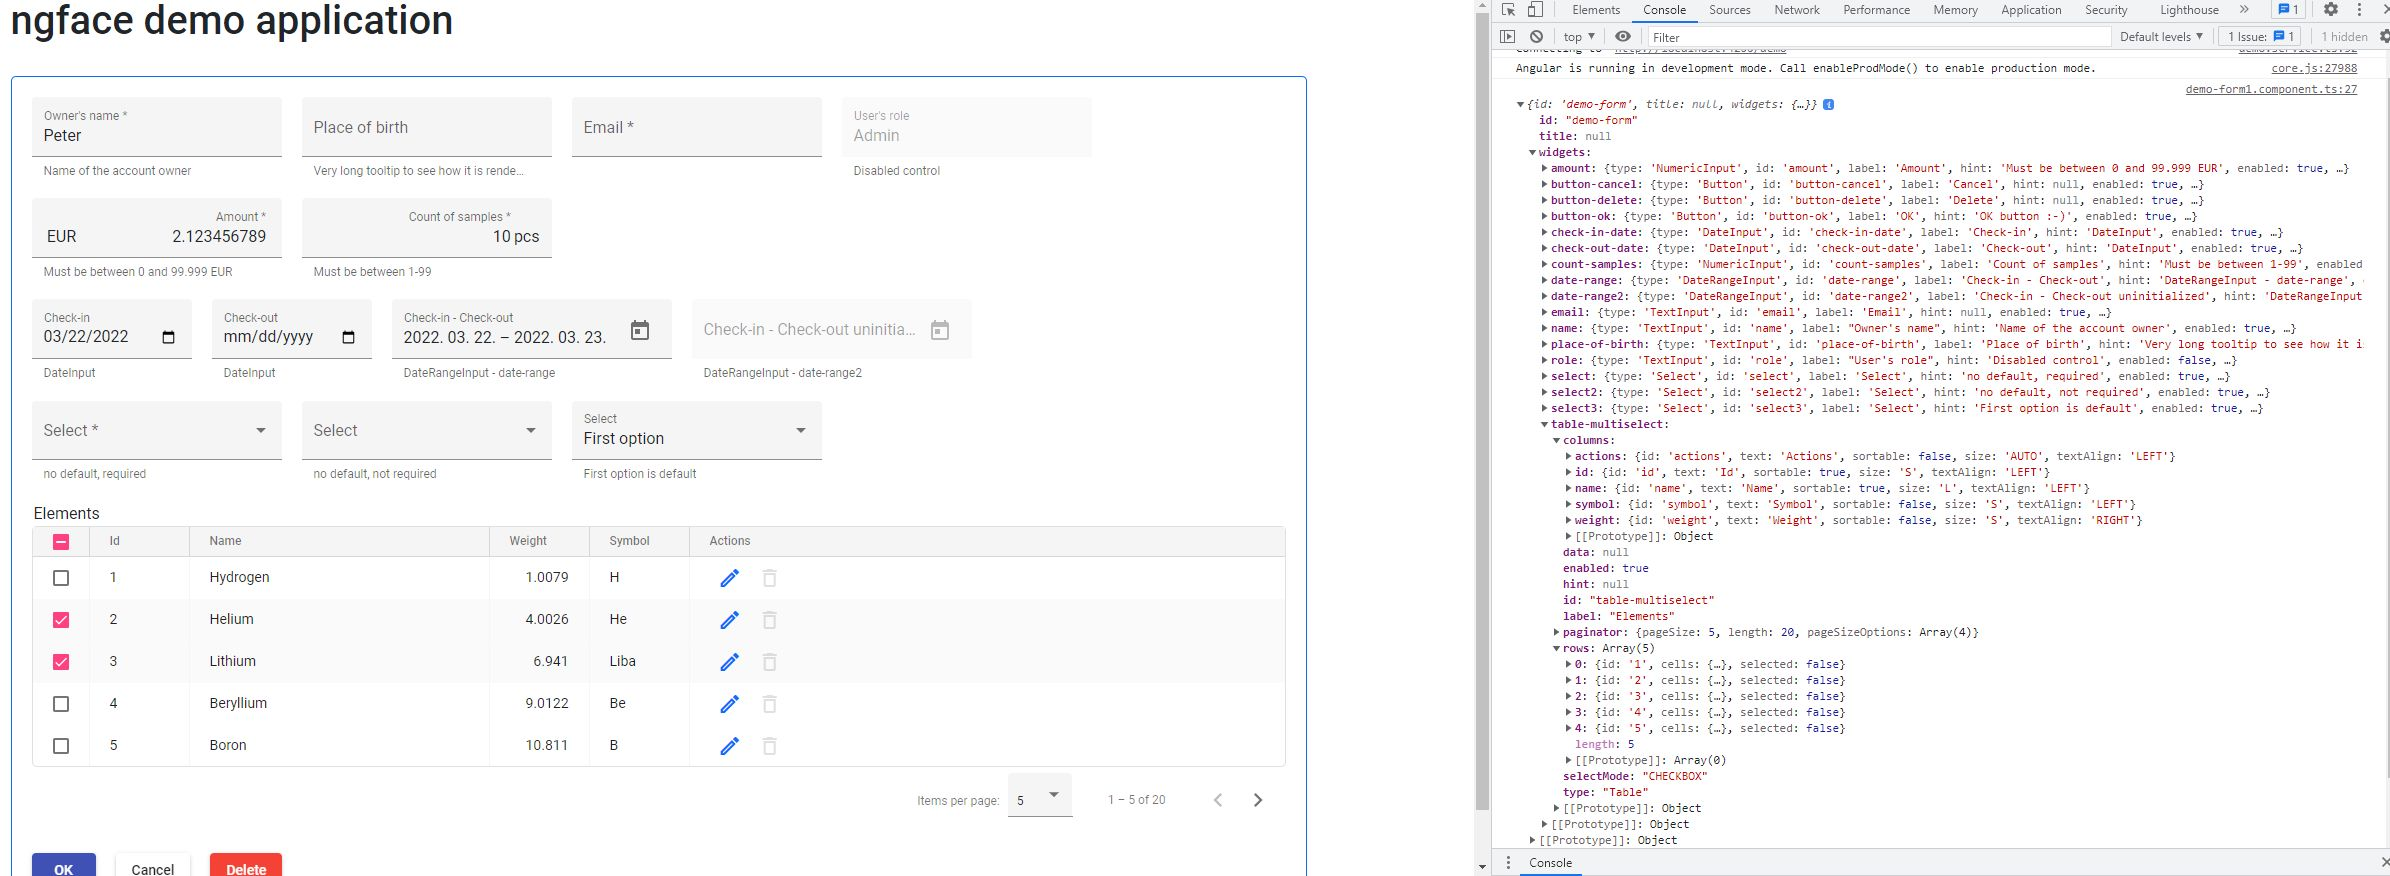
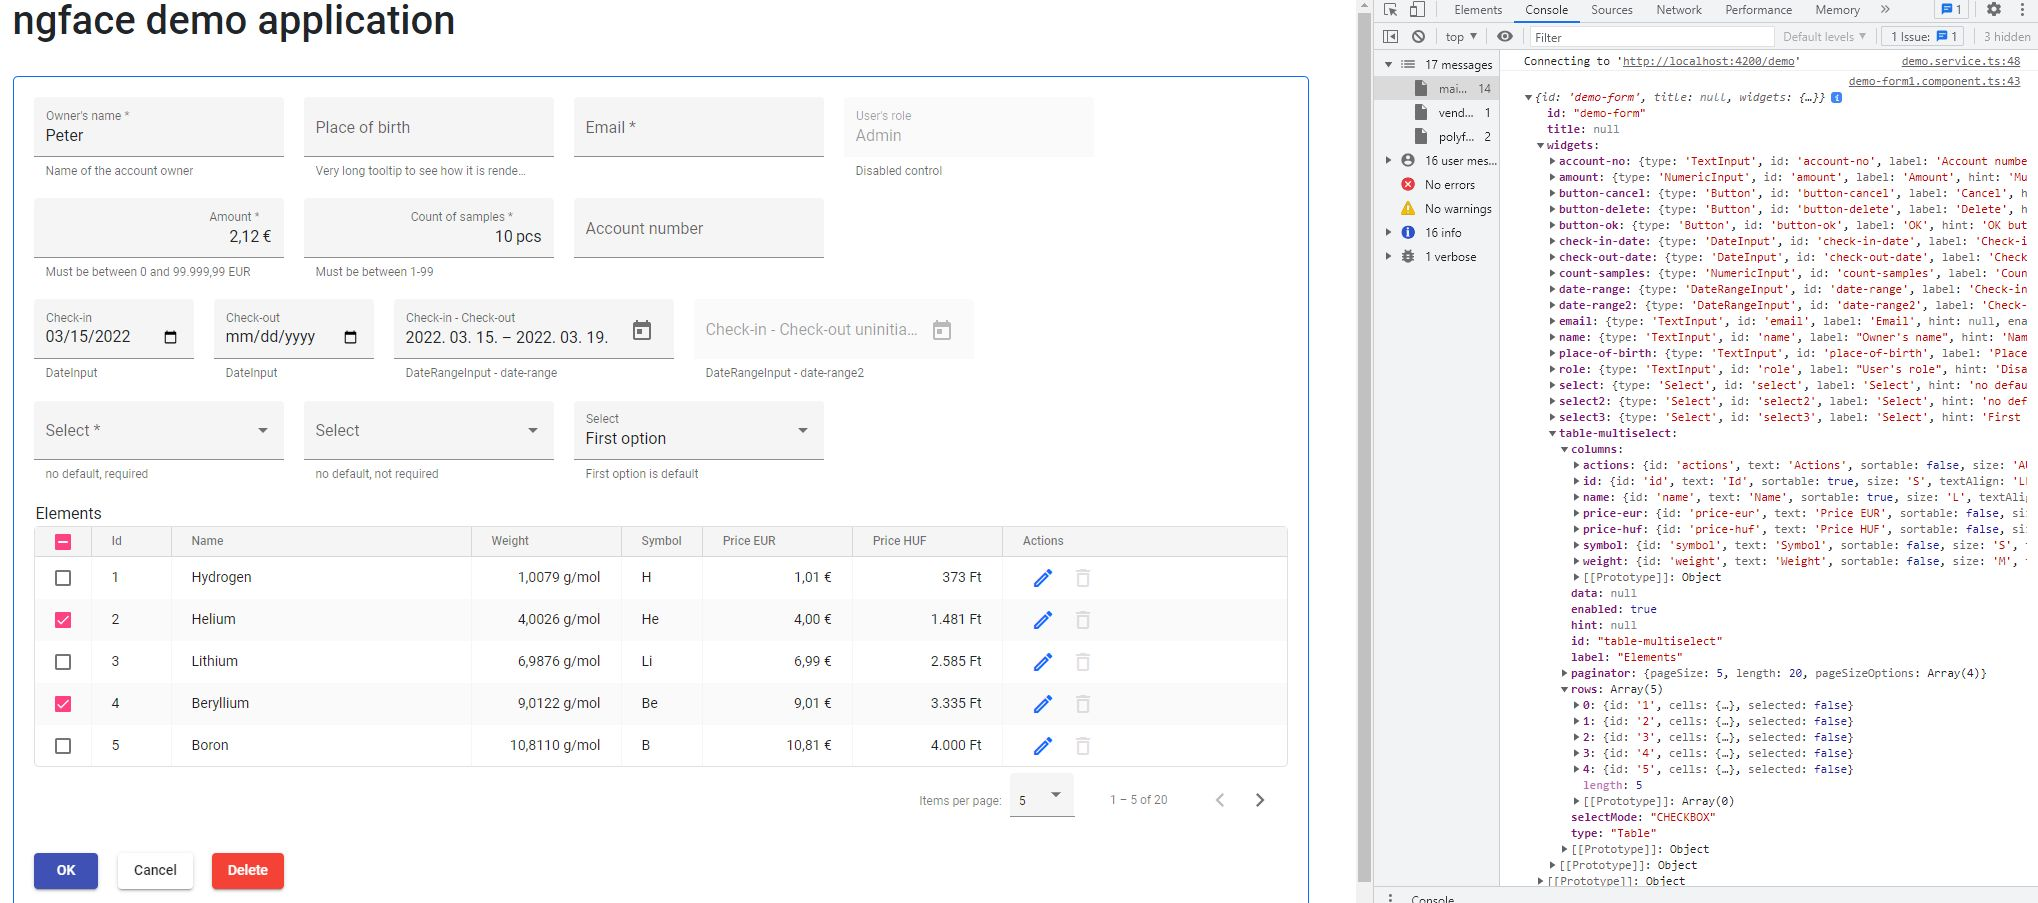
Formatting numeric values support in data table

diff --git a/frontend/angular/src/app/ngface/numeric-input/numeric-input.component.ts b/frontend/angular/src/app/ngface/numeric-input/numeric-input.component.ts
@@ -17,7 +17,8 @@
 import {Component, Inject, LOCALE_ID} from '@angular/core';
 import {TypeModels} from '../../dto-models';
 import {InputBaseComponent} from '../input-base.component';
-import {formatNumber, getLocaleNumberSymbol, NumberSymbol} from '@angular/common';
+import {getLocaleNumberSymbol, NumberSymbol} from '@angular/common';
+import {NumericFormatter} from '../numeric-formatter';
 import NumericInput = TypeModels.NumericInput;
 
 @Component({
@@ -58,7 +59,7 @@ export class NumericInputComponent extends InputBaseComponent
     }
 
     let parsedValue = this.formControl.value;
-    let formattedValue = this.getFormattedValueAsText(parsedValue);
+    let formattedValue = NumericFormatter.getFormattedValueAsText(parsedValue, this.getData().format.precision, this.locale);
 
     console.log('intl value: ' + formattedValue);
     (<HTMLInputElement> target).value = formattedValue;
@@ -74,9 +75,7 @@ export class NumericInputComponent extends InputBaseComponent
       return {
         type: 'NumericInput',
         data: {type: 'NumericInput.Data', value: 0},
-        precision: 0,
-        prefix: '',
-        suffix: '',
+        format: {precision: 0, prefix: '', suffix: '', validators: []},
         placeholder: 'widget id: ' + this.widgetId,
         label: 'undefined label',
         validators: [],
@@ -90,16 +89,7 @@ export class NumericInputComponent extends InputBaseComponent
 
   getValue(): string
   {
-    return this.getFormattedValueAsText(this.getData()?.data?.value);
-  }
-
-  getFormattedValueAsText(value: number): string
-  {
-    if (isNaN(value))
-    {
-      return '';
-    }
-    return formatNumber(value, this.locale, this.getDigitsInfo());
+    return NumericFormatter.getFormattedValueAsText(this.getData()?.data?.value, this.getData().format.precision, this.locale);
   }
 
   private parseIntlValue(): number
@@ -117,17 +107,6 @@ export class NumericInputComponent extends InputBaseComponent
     let parsedValue = parseFloat(valueString);
     console.log('parsedValue: ' + parsedValue);
     return parsedValue;
-  }
-
-  getDigitsInfo(): string
-  {
-    // '0.2-2'
-    let precision = this.getData()?.precision;
-    if (precision !== null)
-    {
-      return `0.${precision}-${precision}`;
-    }
-    return '0.0-99';
   }
 
   escapeRegExp(string: string)

diff --git a/frontend/angular/src/app/dto-models.ts b/frontend/angular/src/app/dto-models.ts
@@ -1,6 +1,6 @@
 /* tslint:disable */
 /* eslint-disable */
-// Generated using typescript-generator version 2.17.558 on 2022-03-25 17:34:35.
+// Generated using typescript-generator version 2.17.558 on 2022-03-25 23:45:15.
 
 export namespace TypeModels {
 
@@ -61,9 +61,7 @@ export namespace TypeModels {
 
     export interface NumericInput extends Input<NumericInput.Data, number, NumericInput> {
         data: NumericInput.Data;
-        precision: number;
-        prefix: string;
-        suffix: string;
+        format: NumericFormat;
     }
 
     export namespace NumericInput {
@@ -180,9 +178,7 @@ export namespace TypeModels {
 
     export interface NumericCell extends Cell<number> {
         value: number;
-        precision: number;
-        prefix: string;
-        suffix: string;
+        format: NumericFormat;
     }
 
     export interface TextCell extends Cell<string> {
@@ -210,6 +206,12 @@ export namespace TypeModels {
         message: string;
     }
 
+    export interface NumericFormat extends AbstractFormat {
+        precision: number;
+        prefix: string;
+        suffix: string;
+    }
+
     export interface Input<WD, V, SUB> extends Widget<WD, SUB> {
         placeholder: string;
         validators: Validator<any>[];
@@ -217,6 +219,10 @@ export namespace TypeModels {
 
     export interface Value<V> extends WidgetData {
         value: V;
+    }
+
+    export interface AbstractFormat {
+        validators: Validator<any>[];
     }
 
     export type Style = "NONE" | "PRIMARY" | "ACCENT" | "WARN";

diff --git a/frontend/angular/src/app/ngface/data-table/data-table.component.ts b/frontend/angular/src/app/ngface/data-table/data-table.component.ts
@@ -28,6 +28,7 @@ import {MatCheckboxChange} from '@angular/material/checkbox';
 import ActionCell = TypeModels.ActionCell;
 import NumericCell = TypeModels.NumericCell;
 import {formatNumber} from '@angular/common';
+import {NumericFormatter} from '../numeric-formatter';
 
 export interface TableReloadEvent
 {
@@ -128,34 +129,14 @@ export class DataTableComponent implements OnChanges, AfterViewInit
     if (cell.type === 'NumericCell')
     {
       let numericCell = <NumericCell> cell;
-      let formattedNumber = numericCell.prefix ?? '' + this.getFormattedValueAsText(numericCell);
-      if (numericCell.suffix)
+      let formattedNumber = numericCell.format.prefix ?? '' + NumericFormatter.getFormattedValueAsText(numericCell.value, numericCell.format.precision, this.locale);
+      if (numericCell.format.suffix)
       {
-        formattedNumber += ' ' + numericCell.suffix;
+        formattedNumber += ' ' + numericCell.format.suffix;
       }
       return formattedNumber;
     }
     return '';
-  }
-
-
-  getFormattedValueAsText(numericCell: NumericCell): string
-  {
-    if (isNaN(numericCell.value))
-    {
-      return '';
-    }
-    return formatNumber(numericCell.value, this.locale, this.getDigitsInfo(numericCell.precision));
-  }
-
-  getDigitsInfo(precision: number): string
-  {
-    // '0.2-2'
-    if (precision !== null)
-    {
-      return `0.${precision}-${precision}`;
-    }
-    return '0.0-99';
   }
 
 

diff --git a/frontend/angular/src/app/ngface/numeric-formatter.ts b/frontend/angular/src/app/ngface/numeric-formatter.ts
@@ -14,26 +14,26 @@
  * limitations under the License.
  */
 
-package hu.perit.ngface.widget.table.cell;
+import {formatNumber} from '@angular/common';
 
-import hu.perit.ngface.formating.NumericFormat;
-import lombok.Getter;
-
-import java.math.BigDecimal;
-
-@Getter
-public class NumericCell extends Cell<BigDecimal>
+export class NumericFormatter
 {
-    private NumericFormat format = new NumericFormat();
-
-    public NumericCell(BigDecimal value)
+  public static getFormattedValueAsText(value: number, precision: number, locale: string): string
+  {
+    if (isNaN(value))
     {
-        super(value);
+      return '';
     }
+    return formatNumber(value, locale, this.getDigitsInfo(precision));
+  }
 
-    public NumericCell format(NumericFormat format)
+  static getDigitsInfo(precision: number): string
+  {
+    // '0.2-2'
+    if (precision !== null)
     {
-        this.format = format;
-        return this;
+      return `0.${precision}-${precision}`;
     }
+    return '0.0-99';
+  }
 }

diff --git a/frontend/angular/src/app/ngface/numeric-input/numeric-input.component.html b/frontend/angular/src/app/ngface/numeric-input/numeric-input.component.html
@@ -23,8 +23,8 @@
          (blur)="onBlur($event.target)"
          (ngModelChange)="onChange()"
   >
-  <span matPrefix>{{getData().prefix}}</span>
-  <span matSuffix>{{getData().suffix}}</span>
+  <span matPrefix>{{getData().format.prefix}}</span>
+  <span matSuffix>{{getData().format.suffix}}</span>
   <mat-hint>{{getData().hint}}</mat-hint>
   <mat-error *ngIf="formControl.errors">{{getValidationErrors()}}</mat-error>
 </mat-form-field>

diff --git a/backend/spring-boot/ngface-java/src/main/java/hu/perit/ngface/widget/input/NumericInput.java b/backend/spring-boot/ngface-java/src/main/java/hu/perit/ngface/widget/input/NumericInput.java
@@ -37,9 +37,7 @@ import java.util.List;
 @ToString(callSuper = true)
 public class NumericInput extends Input<NumericInput.Data, BigDecimal, NumericInput>
 {
-    private Integer precision;
-    private String prefix;
-    private String suffix;
+    private NumericFormat format = new NumericFormat();
 
     public NumericInput(String id)
     {
@@ -58,29 +56,9 @@ public class NumericInput extends Input<NumericInput.Data, BigDecimal, NumericIn
         return Arrays.asList(Required.class, Min.class, Max.class);
     }
 
-    public NumericInput precision(Integer precision)
-    {
-        this.precision = precision;
-        return this;
-    }
-
-    public NumericInput prefix(String prefix)
-    {
-        this.prefix = prefix;
-        return this;
-    }
-
-    public NumericInput suffix(String suffix)
-    {
-        this.suffix = suffix;
-        return this;
-    }
-
     public NumericInput format(NumericFormat format)
     {
-        this.precision = format.getPrecision();
-        this.suffix = format.getSuffix();
-        this.prefix = format.getPrefix();
+        this.format = format;
         return this;
     }
 

diff --git a/backend/spring-boot/ngface-java/src/test/java/hu/perit/ngface/widget/input/WidgetTest.java b/backend/spring-boot/ngface-java/src/test/java/hu/perit/ngface/widget/input/WidgetTest.java
@@ -16,6 +16,7 @@
 
 package hu.perit.ngface.widget.input;
 
+import hu.perit.ngface.formating.NumericFormat;
 import hu.perit.ngface.widget.base.Widget;
 import hu.perit.ngface.widget.input.validator.Min;
 import hu.perit.ngface.widget.input.DateInput;
@@ -46,7 +47,7 @@ class WidgetTest
                 .label("Amount")
                 .hint("Amount")
                 .placeholder("Type in the amount")
-                .precision(2)
+                .format(new NumericFormat().precision(2))
                 .data(new NumericInput.Data(new BigDecimal("2.12")))
                 .addValidator(new Min(0.0, "The smalles amount is 0 EUR"));
 
@@ -75,7 +76,7 @@ class WidgetTest
                 .label("Count of samples")
                 .hint("Count of samples")
                 .placeholder("Type in the count of samples, you want to print")
-                .precision(0)
+                .format(new NumericFormat().precision(0))
                 .data(new NumericInput.Data(new BigDecimal("10")))
                 .addValidator(new Min(0.0, "The count have to be above 0!"));
 

diff --git a/backend/spring-boot/webservice/src/main/java/hu/perit/wsstepbystep/ngface/democomponent/DemoComponentView.java b/backend/spring-boot/webservice/src/main/java/hu/perit/wsstepbystep/ngface/democomponent/DemoComponentView.java
@@ -17,6 +17,7 @@
 package hu.perit.wsstepbystep.ngface.democomponent;
 
 import hu.perit.ngface.formating.FormatCurrency;
+import hu.perit.ngface.formating.NumericFormat;
 import hu.perit.ngface.view.ComponentView;
 import hu.perit.ngface.widget.button.Button;
 import hu.perit.ngface.widget.form.Form;
@@ -93,9 +94,8 @@ public class DemoComponentView implements ComponentView
                         .label("Count of samples")
                         .hint("Must be between 1-99")
                         .placeholder("Type in the count of samples, you want to print")
-                        .precision(0)
+                        .format(new NumericFormat().precision(0).suffix("pcs"))
                         .value(this.data.getCountSamples())
-                        .suffix("pcs")
                         .addValidator(new Required("Count of samples is required!"))
                         .addValidator(new Min(1.0, "The count have to be between 1 and 99!"))
                         .addValidator(new Max(99.0, "The count have to be between 1 and 99!"))

diff --git a/backend/spring-boot/ngface-java/src/main/java/hu/perit/ngface/formating/NumericFormat.java b/backend/spring-boot/ngface-java/src/main/java/hu/perit/ngface/formating/NumericFormat.java
@@ -19,27 +19,27 @@ package hu.perit.ngface.formating;
 import lombok.Getter;
 
 @Getter
-public class NumericFormat<SUB extends NumericFormat> extends AbstractFormat
+public class NumericFormat extends AbstractFormat
 {
     protected Integer precision;
     protected String prefix;
     protected String suffix;
 
-    public SUB precision(Integer precision)
+    public NumericFormat precision(Integer precision)
     {
         this.precision = precision;
-        return (SUB) this;
+        return this;
     }
 
-    public SUB prefix(String prefix)
+    public NumericFormat prefix(String prefix)
     {
         this.prefix = prefix;
-        return (SUB) this;
+        return this;
     }
 
-    public SUB suffix(String suffix)
+    public NumericFormat suffix(String suffix)
     {
         this.suffix = suffix;
-        return (SUB) this;
+        return this;
     }
 }

diff --git a/backend/spring-boot/ngface-java/src/main/java/hu/perit/ngface/formating/FormatCurrency.java b/backend/spring-boot/ngface-java/src/main/java/hu/perit/ngface/formating/FormatCurrency.java
@@ -19,11 +19,11 @@ package hu.perit.ngface.formating;
 import lombok.Data;
 
 @Data
-public class FormatCurrency extends NumericFormat<FormatCurrency>
+public class FormatCurrency extends NumericFormat
 {
-    public static final FormatCurrency EUR = new FormatCurrency("€");
-    public static final FormatCurrency USD = new FormatCurrency("$");
-    public static final FormatCurrency HUF = new FormatCurrency("Ft").precision(0);
+    public static final NumericFormat EUR = new FormatCurrency("€");
+    public static final NumericFormat USD = new FormatCurrency("$");
+    public static final NumericFormat HUF = new FormatCurrency("Ft").precision(0);
 
     public FormatCurrency(String currency)
     {

diff --git a/README.md b/README.md
@@ -13,6 +13,7 @@ A standardized backend-frontend communication using **widgets**.
 - Spring boot and Angular are used, but other fronend/backend technologies can be implemented
 - The design can be customized
 - MVC pattern is used in the backend
+- Predefined and custom formatters can be assigned to widgets and table cells, such as `FormatCurrency.EUR`
 - Backend code can be mostly generated similar to `ng generate` 
 
 ## Why?
@@ -174,7 +175,12 @@ public class TableDetailsComponentView implements ComponentView
         return new Form(data.getId())
                 .title(String.format("Details of %s", this.data.getName()))
                 .addWidget(new TextInput(SYMBOL).value(this.data.getSymbol()).label("Symbol").addValidator(new Required("Symbol is required!")))
-                .addWidget(new NumericInput(WEIGHT).value(BigDecimal.valueOf(this.data.getWeight())).label("Weight").suffix("g").addValidator(new Required("Weight is required!")))
+                .addWidget(new NumericInput(WEIGHT)
+                        .value(BigDecimal.valueOf(this.data.getWeight()))
+                        .label("Weight")
+                        .format(Constants.ATOMIC_WEIGHT_FORMAT)
+                        .addValidator(new Required("Weight is required!"))
+                )
                 .addWidget(Button.SAVE)
                 .addWidget(Button.CANCEL)
                 ;
